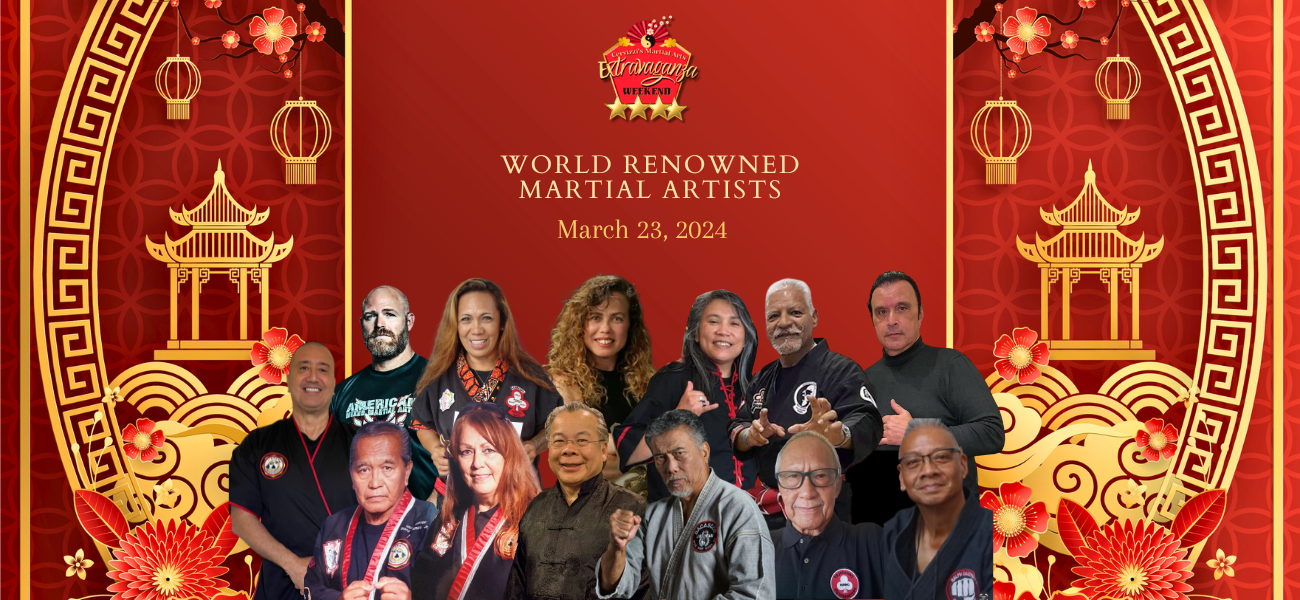
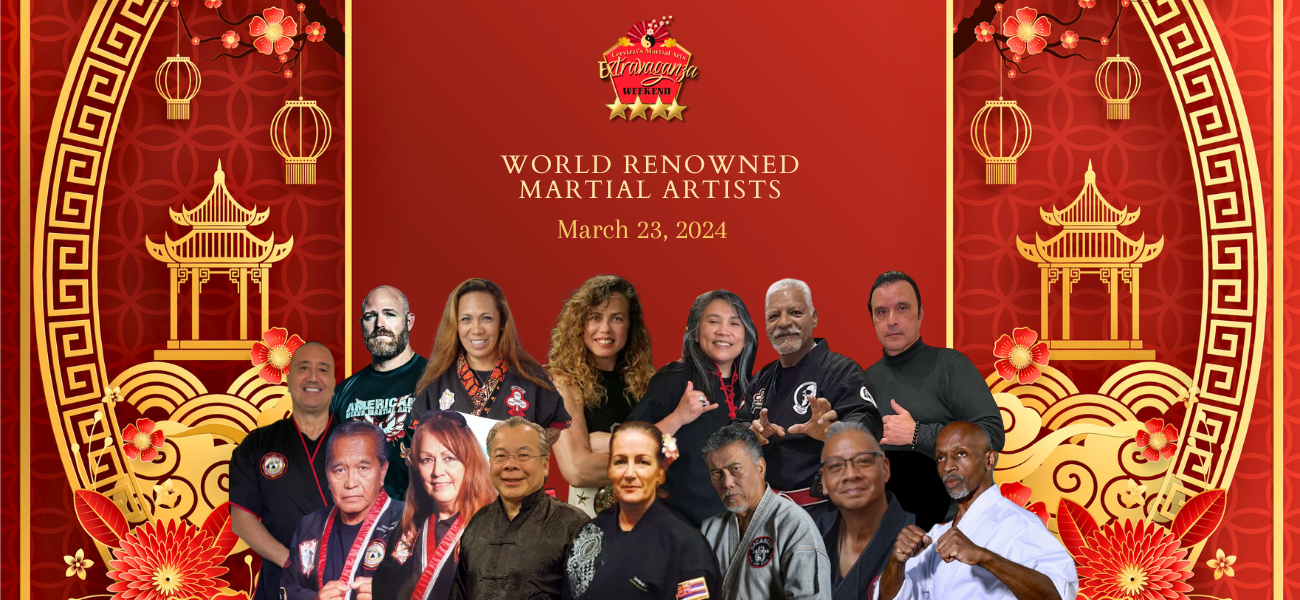
add Robert Crosson & Remove De La Cruz

Changed region(s): [[0.2154, 0.66, 0.8308, 1.0]]

diff --git a/robertcrosson.html b/robertcrosson.html
@@ -1,0 +1,140 @@
+<!DOCTYPE html>
+<html lang="zxx">
+<head>
+	<title>Cervizzi's Martial Art Academy</title>
+	<meta charset="UTF-8">
+	<meta name="description" content="Photo Gallery HTML Template">
+	<meta name="keywords" content="painting,art, magazine, html">
+	<meta name="viewport" content="width=device-width, initial-scale=1.0">
+	<!-- Favicon -->
+	<link href="img/logo/cmaa-ex-logo.png" rel="shortcut icon"/>
+
+	<!-- Google Font -->
+	<link href="https://fonts.googleapis.com/css?family=PT+Sans:400,400i,700,700i" rel="stylesheet">
+
+
+	<!-- Stylesheets -->
+	<link rel="stylesheet" href="css/bootstrap.min.css"/>
+	<link rel="stylesheet" href="css/font-awesome.min.css"/>
+	<link rel="stylesheet" href="css/owl.carousel.min.css"/>
+	<link rel="stylesheet" href="css/animate.css"/>
+
+	<!-- Main Stylesheets -->
+	<link rel="stylesheet" href="css/style.css"/>
+
+
+	<!--[if lt IE 9]>
+		  <script src="https://oss.maxcdn.com/html5shiv/3.7.2/html5shiv.min.js"></script>
+	  <script src="https://oss.maxcdn.com/respond/1.4.2/respond.min.js"></script>
+	<![endif]-->
+
+</head>
+<body>
+	<!-- Page Preloder -->
+	<div id="preloder">
+		<div class="loader"></div>
+	</div>
+
+	<!-- Top right elements -->
+	<div class="spacial-controls">
+		<div class="nav-switch-warp">
+			<div class="nav-switch">
+				<div class="ns-bar"></div>
+			</div>
+		</div>
+	</div>
+	<!-- Top right elements end -->
+
+	<div class="main-warp">
+		<!-- header section -->
+		<header class="header-section">
+			<div class="header-close">
+				<i class="fa fa-times"></i>
+			</div>
+			<div class="header-warp">
+				<a href="" class="site-logo">
+					<img src="./img/logo/cmaa-ex-logo.png" alt="">
+				</a>
+				<!-- <img src="img/menu-icon.png" alt="" class="menu-icon"> -->
+				<ul class="main-menu">
+					<li class="active"><a href="./index.html">Home</a></li>
+					<div class="subnav">
+				    <div class="subnavbtn">3 Days Agenda <i class="fa fa-caret-down"></i></div>
+				    <div class="subnav-content">
+				      <li><a href="./seminar.html">Seminar & VIP Guests</a></li>
+				      <li><a href="./banquet.html">Banquet</a></li>
+				      <li><a href="./tournament.html">Tournament</a></li>
+<li><a href="./hotelroom.html">Book your hotel room</a></li>
+				    </div>
+				  </div>
+					<div class="subnav">
+				    <div class="subnavbtn">Sponsors <i class="fa fa-caret-down"></i></div>
+				    <div class="subnav-content">
+				      <li><a href="./sponsors.html">2024 Sponsors</a></li>
+				      <li><a href="./sponsorform.html">Become a sponsor</a></li>
+				    </div>
+				  </div>
+					<!-- <li><a href="https://cervizzimerch.myuventex.com/" target="_blank">Merchandise</a></li> -->
+					<li><a href="https://www.sokepaulcervizzi.com/" target="_blank">Soke Paul Cervizzi</a></li>
+					<li><a href="./about.html">About</a></li>
+				</ul>
+				<div class="social-links-warp">
+					<div class="social-links">
+						<a href="https://www.instagram.com/cervizzis/" target="_blank"><i class="fa fa-instagram"></i></a>
+						<a href="https://www.facebook.com/cervizzis" target="_blank"><i class="fa fa-facebook"></i></a>
+						<a href="https://www.youtube.com/channel/UCTiPBz7aYlkMbd5Ewvvmokw" target="_blank"><i class="fa fa-youtube"></i></a>
+					</div>
+					<div class="social-text">Find us on</div>
+				</div>
+			</div>
+			<div class="copyright">The Cortado Way 2023 @ All rights reserved</div>
+		</header>
+		<!-- header section end -->
+
+		<!-- Page section -->
+		<div class="page-section gallery-single-page">
+			<div class="gallery-single-warp">
+				<div class="row">
+					<div class="col-xl-5 p-0">
+						<div class="gallery-single-slider owl-carousel">
+							<img src="img/2024/vip/robertcrosson.png" alt="">
+						</div>
+					</div>
+					<div class="col-xl-7 p-0">
+						<div class="gallery-single-text">
+							<span>VIP Guest</span>
+							<h2>GM Robert Crosson</h2>
+							<ul>
+                <li><span>Specialty:</span>Weapons</li>
+								<li><span>Teaching:</span>Urban Combat</li>
+								<li><span>Date:</span>March 23rd, 2024</li>
+							</ul>
+							<p>Grandmaster Robert Crosson may be different things to different people, because he is a diverse international personality. But, the one things that is constant, is the fact that he is a wonderful human being with principles, dignity, and proficiency in his craft as a professional martial artist. He is indeed one of the most naturally gifted , technically sound and dynamic martial artist in the modern world.</p>
+							<p>Grandmaster Robert Crosson is a 10th Degree Black Belt and internationally acclaimed ; endorsed by other  Grandmasters the world over, and Professional Bodies that govern Martial Arts.
+He was born and raised in Brownsville,  NY.  His martial arts training started at age 3, under the guidance of his father the Late Reverend James Crosson, himself a former hand-to-hand instructor in the U.S. Army. By age 8, he began training with the Late Dr. Moses Powell.</p>
+							<p>In 1975, Robert “Sugar” Crosson, now internationally recognized, developed his own martial arts system, SUGAR-RYU JUI-JITSU and established international branches that also developed under his guidance.
+Today,  is currently the CEO of Crosson International Enterprises and official head of the Worldwide  Sugar-Ryu Jiu jitsu Martial Arts System. With over 63 years of experience, Grandmaster Crosson has not only established himself as one of  top self-defense specialist in the world, but also a much sought after Motivational Speaker.</p>
+							<p>Grandmaster Crosson has won over 3000 awards and trophies, including 24 world championships, in addition to being a ten-times Martial Arts Hall of Fame Inductee.  He travels extensively throughout the United States, South America, Europe, the Caribbean, Bermuda Brazil and various other destinations on demand for his glowing professional exhibitions of the Sugar-Ryu Brand. He has served as a personal executive protection specialist many times, providing security for a host of famous individuals that include Eddie Murphy, Doug E Fresh, Wesley Snipes, Muhammad Ali, Sugar Ray Leonard, Mike Tyson, James Brown, and Patti Labelle, Les Brown.</p>
+							<p>This unassuming and humble champion has been featured on ABC Wide World of Sports, CBS Sports Spectacular, ESPN, entertainment tonight and several highly rated television and radio talks shows. He has achieved great international celebrity as a command featured performer at Madison Square Garden, showcase of great sports entertainment.Other famous arenas and locations have been graced with the performances of Grandmaster Robert Sugar Crosson.
+Grandmaster Crosson continues to live out his philosophy; “To be the best you’ve got to work harder than the rest, and your endurance is your life insurance”.</p>
+							</div>
+					</div>
+				</div>
+			</div>
+		</div>
+		<!-- Page section end-->
+	</div>
+
+
+	<!--====== Javascripts & Jquery ======-->
+	<script src="js/jquery-3.2.1.min.js"></script>
+	<script src="js/bootstrap.min.js"></script>
+	<script src="js/owl.carousel.min.js"></script>
+	<script src="js/jquery.nicescroll.min.js"></script>
+	<script src="js/isotope.pkgd.min.js"></script>
+	<script src="js/imagesloaded.pkgd.min.js"></script>
+	<script src="js/circle-progress.min.js"></script>
+	<script src="js/main.js"></script>
+
+	</body>
+</html>

diff --git a/seminar.html b/seminar.html
@@ -103,8 +103,7 @@
 						<p>On Saturday, March 23rd, beginning at 8:00 a.m. to approximately 3 p.m., we will be hosting our Day of Epic
 Seminars (12 years old and over) with some of the most world-renowned martial arts legends. Some of our confirmed epic
 instructors include: GGM Rob Castro, GGM Sixto Ramos Jr., GM Patrice Lim, SGM Eugene Sedeno, SGM Ruth Luka
-Prince-Ramos, GM Kailani Koa, GM Dan Barretto, Sifu Al Dacascos, Sifu Restita DeJesus, Sifu Kathy Long, Sifu Al Dela
-Cruz, Sifu Donald Wong, Maha Guru Horacio Rodriguez, and Professor David Bybee. You absolutely do not want to
+Prince-Ramos, GM Kailani Koa, GM Dan Barretto, Sifu Al Dacascos, Sifu Restita DeJesus, Sifu Kathy Long, GM Robert Crosson, Sifu Donald Wong, Maha Guru Horacio Rodriguez, and Professor David Bybee. You absolutely do not want to
 miss this epic day of seminars with these world-class instructors.</p><br><p>Trust me, this is a once-in-a-lifetime opportunity.</p>
 <br>
 <p>
@@ -136,9 +135,9 @@ All Day Seminars (Includes lunch - pizza and soft drinks) - $199<br>
 									</div>
 								</div>
 								<div class="gallery-item animals">
-									<img src="img/2024/vip/aldelacruz.png" alt="">
+									<img src="img/2024/vip/robertcrosson.png" alt="">
 									<div class="hover-links">
-										<a href="./aldelacruz.html" class="site-btn sb-light">Sifu Al Dela Cruz</a>
+										<a href="./robertcrosson.html" class="site-btn sb-light">GM Robert Crosson</a>
 									</div>
 								</div>
 								<div class="gallery-item photo">

diff --git a/css/style.css b/css/style.css
@@ -1818,6 +1818,13 @@ h4.sponsor-section {
     background-position-y: -100px;
     margin-bottom: 25px;
 }
+/** DESKTOP FIXES **/
+@media (min-width:1200px){
+	.blog-post .blog-thumb {
+    height: 700px;
+    margin-bottom: 25px;
+`}
+}
 /** IPAD FIXES **/
 @media (max-width: 1200px, min-width:800px){
 	.main-warp {
